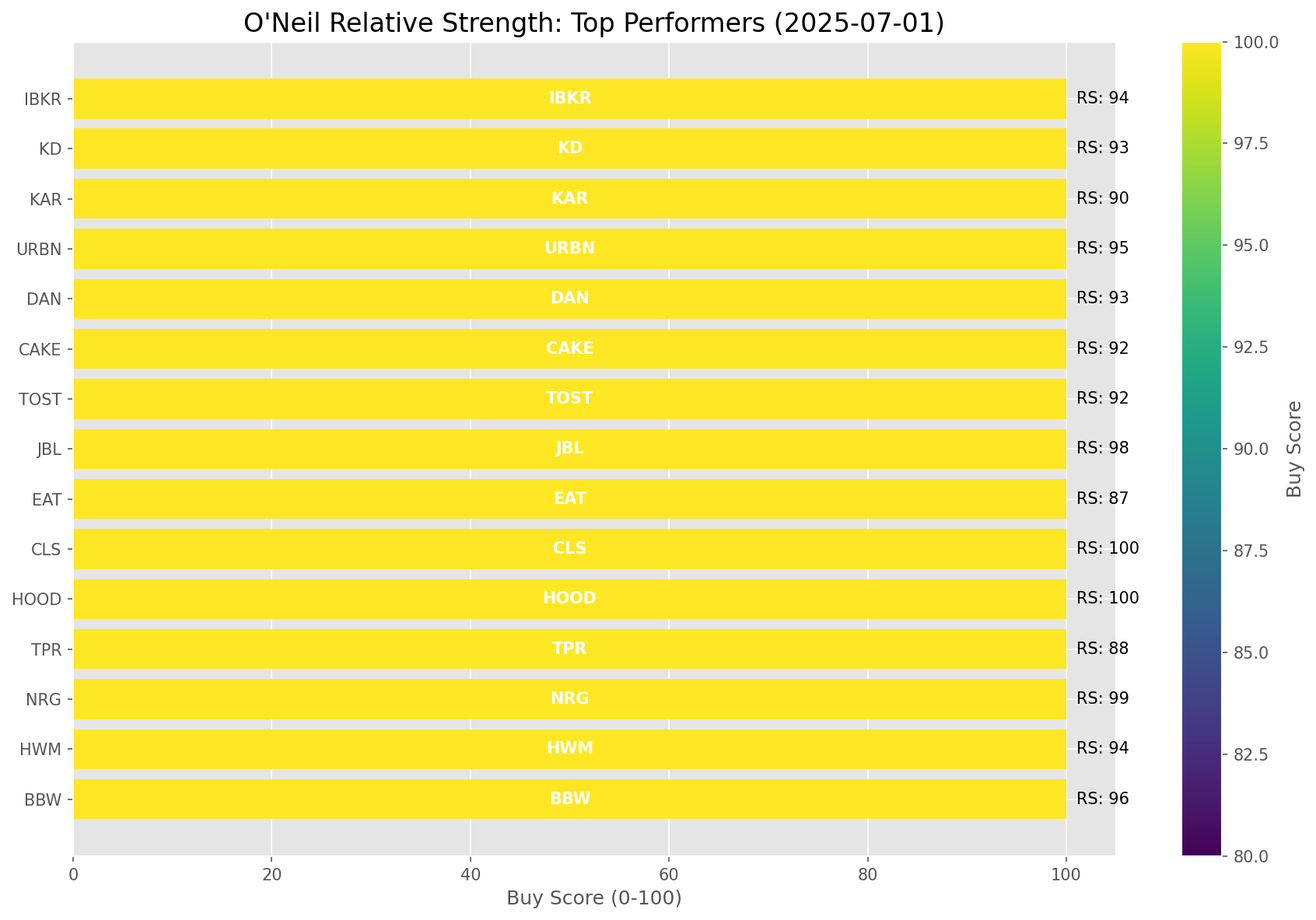
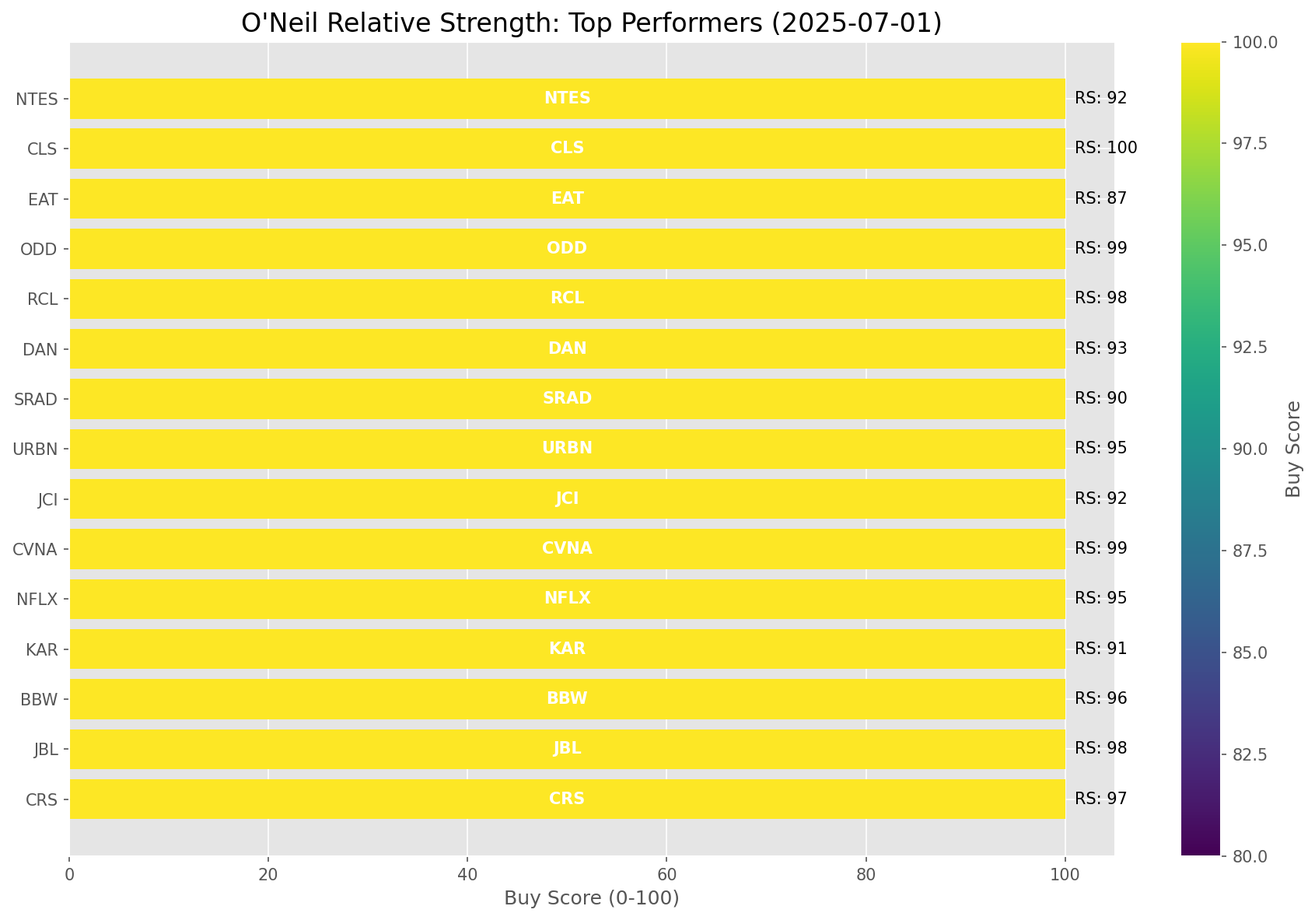
Add market report for 2025-07-01

diff --git a/oneil_relative_strength_report_2025-07-01.md b/oneil_relative_strength_report_2025-07-01.md
@@ -9,11 +9,11 @@
 | Metric | Value |
 |--------|-------|
 | **Market Valuation** | **Overvalued** |
-| **Current Ratio** | 10.15 |
+| **Current Ratio** | 10.14 |
 | **Historical Mean** | 9.36 |
 | **Standard Deviation** | 0.46 |
 | **Z-Score (StdDev from Mean)** | 1.69 |
-| **Total Market Cap** | $304.08 trillion |
+| **Total Market Cap** | $303.93 trillion |
 | **GDP** | $29.96 trillion |
 
 ## **Market Insights**
@@ -49,41 +49,41 @@ Based on William O'Neil's Relative Strength Methodology
 
 | ETF | Strength | RS Rating | Performance | Above Key MAs | Trend | Sector |
 |-----|----------|-----------|-------------|--------------|-------|--------|
-| [ARKW](https://www.tradingview.com/chart/?symbol=ARKW) | 99.0 | 98.0 | 52.21% | 10d ✓, 50d ✓, 200d ✓ | ↗ | Next Generation Internet |
-| [ARKF](https://www.tradingview.com/chart/?symbol=ARKF) | 98.5 | 97.0 | 47.87% | 10d ✓, 50d ✓, 200d ✓ | ↗ | Fintech Innovation |
-| [ARKK](https://www.tradingview.com/chart/?symbol=ARKK) | 98.0 | 96.0 | 44.61% | 10d ✓, 50d ✓, 200d ✓ | ↗ | Innovation |
-| [BLOK](https://www.tradingview.com/chart/?symbol=BLOK) | 97.0 | 94.0 | 35.30% | 10d ✓, 50d ✓, 200d ✓ | ↗ | Blockchain & Cryptocurrency |
-| [XLK](https://www.tradingview.com/chart/?symbol=XLK) | 92.5 | 85.0 | 21.47% | 10d ✓, 50d ✓, 200d ✓ | ↗ | Technology |
-| [AIQ](https://www.tradingview.com/chart/?symbol=AIQ) | 90.5 | 81.0 | 18.64% | 10d ✓, 50d ✓, 200d ✓ | ↗ | Artificial Intelligence & Technology |
-| [CIBR](https://www.tradingview.com/chart/?symbol=CIBR) | 90.0 | 80.0 | 17.90% | 10d ✓, 50d ✓, 200d ✓ | ↗ | Cybersecurity |
-| [URA](https://www.tradingview.com/chart/?symbol=URA) | 89.6 | 99.0 | 63.48% | 10d ✗, 50d ✓, 200d ✓ | ↗ | Uranium |
-| [PAVE](https://www.tradingview.com/chart/?symbol=PAVE) | 89.5 | 79.0 | 16.96% | 10d ✓, 50d ✓, 200d ✓ | ↗ | Infrastructure |
-| [XLI](https://www.tradingview.com/chart/?symbol=XLI) | 86.0 | 72.0 | 12.97% | 10d ✓, 50d ✓, 200d ✓ | ↗ | Industrial |
-| [JETS](https://www.tradingview.com/chart/?symbol=JETS) | 85.5 | 71.0 | 12.40% | 10d ✓, 50d ✓, 200d ✓ | ↗ | Airlines |
-| [XLC](https://www.tradingview.com/chart/?symbol=XLC) | 84.5 | 69.0 | 11.62% | 10d ✓, 50d ✓, 200d ✓ | ↗ | Communications |
-| [XLY](https://www.tradingview.com/chart/?symbol=XLY) | 83.5 | 67.0 | 10.74% | 10d ✓, 50d ✓, 200d ✓ | ↗ | Consumer Discretionary |
-| [IYZ](https://www.tradingview.com/chart/?symbol=IYZ) | 80.5 | 61.0 | 8.63% | 10d ✓, 50d ✓, 200d ✓ | ↗ | Telecommunications |
-| [XLF](https://www.tradingview.com/chart/?symbol=XLF) | 76.0 | 52.0 | 5.73% | 10d ✓, 50d ✓, 200d ✓ | ↗ | Financial |
-| [SOXX](https://www.tradingview.com/chart/?symbol=SOXX) | 74.5 | 89.0 | 26.40% | 10d ✓, 50d ✓, 200d ✓ | ↘ | Semiconductors |
-| [XLU](https://www.tradingview.com/chart/?symbol=XLU) | 74.0 | 48.0 | 3.80% | 10d ✓, 50d ✓, 200d ✓ | ↗ | Utilities |
-| [ARKG](https://www.tradingview.com/chart/?symbol=ARKG) | 69.0 | 78.0 | 16.52% | 10d ✓, 50d ✓, 200d ✓ | ↘ | Genomics |
-| [XLP](https://www.tradingview.com/chart/?symbol=XLP) | 68.5 | 37.0 | 0.51% | 10d ✓, 50d ✓, 200d ✓ | ↗ | Consumer Staples |
-| [ICLN](https://www.tradingview.com/chart/?symbol=ICLN) | 68.5 | 77.0 | 15.72% | 10d ✓, 50d ✓, 200d ✓ | ↘ | Clean Energy |
-| [GLD](https://www.tradingview.com/chart/?symbol=GLD) | 67.6 | 55.0 | 6.76% | 10d ✗, 50d ✓, 200d ✓ | ↗ | Gold |
-| [SLV](https://www.tradingview.com/chart/?symbol=SLV) | 66.6 | 53.0 | 5.82% | 10d ✗, 50d ✓, 200d ✓ | ↗ | Silver |
-| [KWEB](https://www.tradingview.com/chart/?symbol=KWEB) | 64.5 | 29.0 | -1.39% | 10d ✓, 50d ✓, 200d ✓ | ↗ | Chinese Internet |
-| [IYT](https://www.tradingview.com/chart/?symbol=IYT) | 60.5 | 61.0 | 8.68% | 10d ✓, 50d ✓, 200d ✓ | ↘ | Transportation |
-| [XLB](https://www.tradingview.com/chart/?symbol=XLB) | 55.0 | 50.0 | 4.88% | 10d ✓, 50d ✓, 200d ✓ | ↘ | Materials |
-| [ITB](https://www.tradingview.com/chart/?symbol=ITB) | 41.8 | 44.0 | 2.53% | 10d ✓, 50d ✓, 200d ✗ | ↘ | Home Construction |
-| [IBB](https://www.tradingview.com/chart/?symbol=IBB) | 37.3 | 35.0 | 0.01% | 10d ✓, 50d ✓, 200d ✗ | ↘ | Biotechnology |
-| [IYR](https://www.tradingview.com/chart/?symbol=IYR) | 36.8 | 34.0 | -0.15% | 10d ✓, 50d ✓, 200d ✗ | ↘ | Real Estate |
-| [DBA](https://www.tradingview.com/chart/?symbol=DBA) | 32.5 | 25.0 | -2.84% | 10d ✗, 50d ✗, 200d ✗ | ↗ | Agriculture |
-| [TLT](https://www.tradingview.com/chart/?symbol=TLT) | 31.8 | 24.0 | -3.21% | 10d ✓, 50d ✓, 200d ✗ | ↘ | Long-term Treasuries |
-| [XLV](https://www.tradingview.com/chart/?symbol=XLV) | 28.3 | 17.0 | -6.34% | 10d ✓, 50d ✓, 200d ✗ | ↘ | Healthcare |
-| [DBC](https://www.tradingview.com/chart/?symbol=DBC) | 22.9 | 26.0 | -2.60% | 10d ✗, 50d ✓, 200d ✗ | ↘ | Commodities |
-| [XLE](https://www.tradingview.com/chart/?symbol=XLE) | 16.9 | 14.0 | -8.20% | 10d ✗, 50d ✓, 200d ✗ | ↘ | Energy |
+| [ARKW](https://www.tradingview.com/chart/?symbol=ARKW) | 99.0 | 98.0 | 52.59% | 10d ✓, 50d ✓, 200d ✓ | ↗ | Next Generation Internet |
+| [ARKF](https://www.tradingview.com/chart/?symbol=ARKF) | 98.5 | 97.0 | 48.26% | 10d ✓, 50d ✓, 200d ✓ | ↗ | Fintech Innovation |
+| [ARKK](https://www.tradingview.com/chart/?symbol=ARKK) | 98.0 | 96.0 | 44.89% | 10d ✓, 50d ✓, 200d ✓ | ↗ | Innovation |
+| [BLOK](https://www.tradingview.com/chart/?symbol=BLOK) | 97.0 | 94.0 | 35.23% | 10d ✓, 50d ✓, 200d ✓ | ↗ | Blockchain & Cryptocurrency |
+| [XLK](https://www.tradingview.com/chart/?symbol=XLK) | 92.5 | 85.0 | 21.55% | 10d ✓, 50d ✓, 200d ✓ | ↗ | Technology |
+| [AIQ](https://www.tradingview.com/chart/?symbol=AIQ) | 91.0 | 82.0 | 18.75% | 10d ✓, 50d ✓, 200d ✓ | ↗ | Artificial Intelligence & Technology |
+| [CIBR](https://www.tradingview.com/chart/?symbol=CIBR) | 90.5 | 81.0 | 18.13% | 10d ✓, 50d ✓, 200d ✓ | ↗ | Cybersecurity |
+| [URA](https://www.tradingview.com/chart/?symbol=URA) | 89.6 | 99.0 | 63.26% | 10d ✗, 50d ✓, 200d ✓ | ↗ | Uranium |
+| [PAVE](https://www.tradingview.com/chart/?symbol=PAVE) | 89.5 | 79.0 | 16.67% | 10d ✓, 50d ✓, 200d ✓ | ↗ | Infrastructure |
+| [XLI](https://www.tradingview.com/chart/?symbol=XLI) | 86.0 | 72.0 | 12.92% | 10d ✓, 50d ✓, 200d ✓ | ↗ | Industrial |
+| [JETS](https://www.tradingview.com/chart/?symbol=JETS) | 86.0 | 72.0 | 12.81% | 10d ✓, 50d ✓, 200d ✓ | ↗ | Airlines |
+| [XLC](https://www.tradingview.com/chart/?symbol=XLC) | 85.0 | 70.0 | 11.73% | 10d ✓, 50d ✓, 200d ✓ | ↗ | Communications |
+| [XLY](https://www.tradingview.com/chart/?symbol=XLY) | 83.0 | 66.0 | 10.53% | 10d ✓, 50d ✓, 200d ✓ | ↗ | Consumer Discretionary |
+| [IYZ](https://www.tradingview.com/chart/?symbol=IYZ) | 80.5 | 61.0 | 8.58% | 10d ✓, 50d ✓, 200d ✓ | ↗ | Telecommunications |
+| [XLF](https://www.tradingview.com/chart/?symbol=XLF) | 76.5 | 53.0 | 5.72% | 10d ✓, 50d ✓, 200d ✓ | ↗ | Financial |
+| [SOXX](https://www.tradingview.com/chart/?symbol=SOXX) | 74.5 | 89.0 | 26.28% | 10d ✓, 50d ✓, 200d ✓ | ↘ | Semiconductors |
+| [XLU](https://www.tradingview.com/chart/?symbol=XLU) | 74.0 | 48.0 | 3.92% | 10d ✓, 50d ✓, 200d ✓ | ↗ | Utilities |
+| [ARKG](https://www.tradingview.com/chart/?symbol=ARKG) | 69.0 | 78.0 | 16.43% | 10d ✓, 50d ✓, 200d ✓ | ↘ | Genomics |
+| [XLP](https://www.tradingview.com/chart/?symbol=XLP) | 68.5 | 37.0 | 0.38% | 10d ✓, 50d ✓, 200d ✓ | ↗ | Consumer Staples |
+| [ICLN](https://www.tradingview.com/chart/?symbol=ICLN) | 68.5 | 77.0 | 15.76% | 10d ✓, 50d ✓, 200d ✓ | ↘ | Clean Energy |
+| [GLD](https://www.tradingview.com/chart/?symbol=GLD) | 67.6 | 55.0 | 6.74% | 10d ✗, 50d ✓, 200d ✓ | ↗ | Gold |
+| [SLV](https://www.tradingview.com/chart/?symbol=SLV) | 66.1 | 52.0 | 5.61% | 10d ✗, 50d ✓, 200d ✓ | ↗ | Silver |
+| [KWEB](https://www.tradingview.com/chart/?symbol=KWEB) | 64.5 | 29.0 | -1.63% | 10d ✓, 50d ✓, 200d ✓ | ↗ | Chinese Internet |
+| [IYT](https://www.tradingview.com/chart/?symbol=IYT) | 60.5 | 61.0 | 8.82% | 10d ✓, 50d ✓, 200d ✓ | ↘ | Transportation |
+| [XLB](https://www.tradingview.com/chart/?symbol=XLB) | 55.0 | 50.0 | 4.77% | 10d ✓, 50d ✓, 200d ✓ | ↘ | Materials |
+| [ITB](https://www.tradingview.com/chart/?symbol=ITB) | 41.3 | 43.0 | 2.02% | 10d ✓, 50d ✓, 200d ✗ | ↘ | Home Construction |
+| [IBB](https://www.tradingview.com/chart/?symbol=IBB) | 36.8 | 34.0 | -0.21% | 10d ✓, 50d ✓, 200d ✗ | ↘ | Biotechnology |
+| [IYR](https://www.tradingview.com/chart/?symbol=IYR) | 36.3 | 33.0 | -0.32% | 10d ✓, 50d ✓, 200d ✗ | ↘ | Real Estate |
+| [DBA](https://www.tradingview.com/chart/?symbol=DBA) | 32.5 | 25.0 | -2.95% | 10d ✗, 50d ✗, 200d ✗ | ↗ | Agriculture |
+| [TLT](https://www.tradingview.com/chart/?symbol=TLT) | 31.8 | 24.0 | -3.17% | 10d ✓, 50d ✓, 200d ✗ | ↘ | Long-term Treasuries |
+| [XLV](https://www.tradingview.com/chart/?symbol=XLV) | 28.3 | 17.0 | -6.37% | 10d ✓, 50d ✓, 200d ✗ | ↘ | Healthcare |
+| [DBC](https://www.tradingview.com/chart/?symbol=DBC) | 22.9 | 26.0 | -2.53% | 10d ✗, 50d ✓, 200d ✗ | ↘ | Commodities |
 | [BIL](https://www.tradingview.com/chart/?symbol=BIL) | 16.5 | 33.0 | -0.32% | 10d ✗, 50d ✗, 200d ✗ | ↘ | Short-term Treasuries |
-| [UUP](https://www.tradingview.com/chart/?symbol=UUP) | 9.0 | 18.0 | -5.90% | 10d ✗, 50d ✗, 200d ✗ | ↘ | U.S. Dollar |
+| [XLE](https://www.tradingview.com/chart/?symbol=XLE) | 16.4 | 13.0 | -8.55% | 10d ✗, 50d ✓, 200d ✗ | ↘ | Energy |
+| [UUP](https://www.tradingview.com/chart/?symbol=UUP) | 9.0 | 18.0 | -5.85% | 10d ✗, 50d ✗, 200d ✗ | ↘ | U.S. Dollar |
 
 ### **Sector ETF Performance Interpretation**
 
@@ -100,7 +100,7 @@ This table shows the relative strength metrics for different market sectors base
 
 The current market leadership is coming from the following sectors: **Next Generation Internet, Fintech Innovation, Innovation**.
 
-The **Next Generation Internet** sector (represented by **ARKW**) is showing particularly strong relative strength with an RS rating of 98.0 and performance of 52.21% vs. the S&P 500. This sector is trading above its 10-day, 50-day, 200-day moving average(s). Investors should consider focusing on high RS stocks within these leading sectors for potential outperformance.
+The **Next Generation Internet** sector (represented by **ARKW**) is showing particularly strong relative strength with an RS rating of 98.0 and performance of 52.59% vs. the S&P 500. This sector is trading above its 10-day, 50-day, 200-day moving average(s). Investors should consider focusing on high RS stocks within these leading sectors for potential outperformance.
 
 ---
 
@@ -110,134 +110,130 @@ The following 62 stocks show exceptional relative strength:
 
 | RS Rating | Buy Score | Current Price | Chart | Name | Ticker |
 |-----------|-----------|---------------|-------|------|--------|
-| 100 | 100 | $92.05 | [Chart](https://www.tradingview.com/chart/?symbol=HOOD) | Robinhood Markets, Inc. Class A Common Stock | HOOD |
-| 100 | 100 | $145.97 | [Chart](https://www.tradingview.com/chart/?symbol=CLS) | Celestica, Inc. | CLS |
-| 100 | 100 | $166.86 | [Chart](https://www.tradingview.com/chart/?symbol=SEZL) | Sezzle Inc. Common Stock | SEZL |
-| 100 | 100 | $257.93 | [Chart](https://www.tradingview.com/chart/?symbol=DAVE) | Dave Inc. Class A Common Stock | DAVE |
-| 99 | 100 | $155.76 | [Chart](https://www.tradingview.com/chart/?symbol=NRG) | NRG Energy, Inc. | NRG |
-| 99 | 100 | $336.33 | [Chart](https://www.tradingview.com/chart/?symbol=CVNA) | Carvana Co. | CVNA |
-| 99 | 100 | $73.97 | [Chart](https://www.tradingview.com/chart/?symbol=ODD) | ODDITY Tech Ltd. Class A Ordinary Shares | ODD |
-| 98 | 100 | $215.69 | [Chart](https://www.tradingview.com/chart/?symbol=JBL) | Jabil Inc. | JBL |
-| 98 | 100 | $43.95 | [Chart](https://www.tradingview.com/chart/?symbol=FARO) | Faro Technologies Inc | FARO |
-| 98 | 100 | $314.44 | [Chart](https://www.tradingview.com/chart/?symbol=RCL) | Royal Caribbean Group | RCL |
-| 98 | 100 | $272.34 | [Chart](https://www.tradingview.com/chart/?symbol=CRS) | Carpenter Technology Corp | CRS |
-| 96 | 100 | $52.68 | [Chart](https://www.tradingview.com/chart/?symbol=BBW) | Build-A-Bear Workshop, Inc. | BBW |
-| 95 | 100 | $73.55 | [Chart](https://www.tradingview.com/chart/?symbol=URBN) | Urban Outfitters Inc | URBN |
-| 95 | 100 | $1296.14 | [Chart](https://www.tradingview.com/chart/?symbol=NFLX) | NetFlix Inc | NFLX |
-| 95 | 100 | $37.48 | [Chart](https://www.tradingview.com/chart/?symbol=AS) | Amer Sports, Inc. | AS |
-| 94 | 100 | $177.13 | [Chart](https://www.tradingview.com/chart/?symbol=HWM) | Howmet Aerospace Inc. | HWM |
-| 94 | 100 | $56.21 | [Chart](https://www.tradingview.com/chart/?symbol=IBKR) | Interactive Brokers Group, Inc. Class A Common Stock | IBKR |
-| 94 | 100 | $45.28 | [Chart](https://www.tradingview.com/chart/?symbol=DRS) | Leonardo DRS, Inc. Common Stock | DRS |
-| 93 | 100 | $17.55 | [Chart](https://www.tradingview.com/chart/?symbol=DAN) | Dana Incorporated | DAN |
-| 93 | 100 | $41.84 | [Chart](https://www.tradingview.com/chart/?symbol=KD) | Kyndryl Holdings, Inc. | KD |
-| 93 | 100 | $244.74 | [Chart](https://www.tradingview.com/chart/?symbol=WWD) | Woodward, Inc. | WWD |
-| 92 | 100 | $43.10 | [Chart](https://www.tradingview.com/chart/?symbol=TOST) | Toast, Inc. | TOST |
-| 92 | 100 | $64.01 | [Chart](https://www.tradingview.com/chart/?symbol=CAKE) | Cheesecake Factory (The) | CAKE |
-| 92 | 100 | $238.26 | [Chart](https://www.tradingview.com/chart/?symbol=DASH) | DoorDash, Inc. Class A Common Stock | DASH |
-| 92 | 100 | $134.84 | [Chart](https://www.tradingview.com/chart/?symbol=NTES) | NetEase, inc. | NTES |
-| 92 | 100 | $104.45 | [Chart](https://www.tradingview.com/chart/?symbol=JCI) | Johnson Controls International plc | JCI |
-| 91 | 100 | $98.45 | [Chart](https://www.tradingview.com/chart/?symbol=SANM) | Sanmina  Corp | SANM |
-| 90 | 100 | $24.71 | [Chart](https://www.tradingview.com/chart/?symbol=KAR) | OPENLANE, Inc | KAR |
-| 90 | 100 | $27.68 | [Chart](https://www.tradingview.com/chart/?symbol=SRAD) | Sportradar Group AG Class A Ordinary Shares | SRAD |
-| 90 | 100 | $153.14 | [Chart](https://www.tradingview.com/chart/?symbol=COOP) | Mr. Cooper Group Inc. Common Stock | COOP |
-| 88 | 100 | $87.21 | [Chart](https://www.tradingview.com/chart/?symbol=TPR) | Tapestry, Inc. Common Stock | TPR |
-| 87 | 100 | $184.36 | [Chart](https://www.tradingview.com/chart/?symbol=EAT) | Brinker International, Inc. | EAT |
-| 88 | 99 | $5735.26 | [Chart](https://www.tradingview.com/chart/?symbol=BKNG) | Booking Holdings Inc. Common Stock | BKNG |
-| 88 | 99 | $249.80 | [Chart](https://www.tradingview.com/chart/?symbol=GE) | GE Aerospace | GE |
-| 84 | 98 | $21.34 | [Chart](https://www.tradingview.com/chart/?symbol=KT) | KT Corp. | KT |
-| 87 | 97 | $106.16 | [Chart](https://www.tradingview.com/chart/?symbol=PSMT) | Pricesmart Inc | PSMT |
-| 87 | 96 | $65.25 | [Chart](https://www.tradingview.com/chart/?symbol=RYTM) | Rhythm Pharmaceuticals, Inc. Common Stock | RYTM |
-| 85 | 96 | $282.87 | [Chart](https://www.tradingview.com/chart/?symbol=VEEV) | Veeva Systems Inc. | VEEV |
-| 85 | 96 | $27.73 | [Chart](https://www.tradingview.com/chart/?symbol=UVE) | UNIVERSAL INSURANCE HLDG, INC. | UVE |
-| 86 | 95 | $48.39 | [Chart](https://www.tradingview.com/chart/?symbol=SIL) | Global X Silver Miners ETF (NEW) | SIL |
-| 84 | 95 | $185.15 | [Chart](https://www.tradingview.com/chart/?symbol=ITA) | iShares U.S. Aerospace & Defense ETF | ITA |
-| 82 | 95 | $29.26 | [Chart](https://www.tradingview.com/chart/?symbol=CAE) | CAE INC | CAE |
-| 82 | 95 | $18.32 | [Chart](https://www.tradingview.com/chart/?symbol=BCS) | Barclays PLC | BCS |
-| 82 | 95 | $36.17 | [Chart](https://www.tradingview.com/chart/?symbol=AHR) | American Healthcare REIT, Inc. | AHR |
-| 81 | 95 | $90.67 | [Chart](https://www.tradingview.com/chart/?symbol=SNEX) | StoneX Group Inc. Common Stock | SNEX |
-| 84 | 94 | $139.90 | [Chart](https://www.tradingview.com/chart/?symbol=PPA) | Invesco Aerospace & Defense ETF | PPA |
-| 82 | 94 | $120.83 | [Chart](https://www.tradingview.com/chart/?symbol=EHC) | Encompass Health Corporation Common Stock | EHC |
-| 83 | 93 | $215.20 | [Chart](https://www.tradingview.com/chart/?symbol=COF) | Capital One Financial | COF |
-| 83 | 93 | $110.75 | [Chart](https://www.tradingview.com/chart/?symbol=SPMO) | Invesco S&P 500 Momentum ETF | SPMO |
-| 83 | 93 | $29.37 | [Chart](https://www.tradingview.com/chart/?symbol=NTGR) | NETGEAR, Inc. | NTGR |
-| 82 | 93 | $75.15 | [Chart](https://www.tradingview.com/chart/?symbol=CTVA) | Corteva, Inc. Common Stock | CTVA |
-| 81 | 93 | $80.64 | [Chart](https://www.tradingview.com/chart/?symbol=LLYVK) | Liberty Media Corporation Series C Liberty Live Common Stock | LLYVK |
-| 80 | 93 | $43.38 | [Chart](https://www.tradingview.com/chart/?symbol=EXEL) | Exelixis Inc | EXEL |
-| 80 | 93 | $291.76 | [Chart](https://www.tradingview.com/chart/?symbol=IBM) | International Business Machines Corporation | IBM |
-| 81 | 92 | $100.85 | [Chart](https://www.tradingview.com/chart/?symbol=LBRDK) | Liberty Broadband Corporation Class C | LBRDK |
-| 81 | 92 | $77.58 | [Chart](https://www.tradingview.com/chart/?symbol=USFD) | US Foods Holding Corp. | USFD |
-| 80 | 92 | $74.28 | [Chart](https://www.tradingview.com/chart/?symbol=CIBR) | First Trust Exchange-Traded Fund II First Trust NASDAQ Cybersecurity ETF | CIBR |
-| 80 | 92 | $510.33 | [Chart](https://www.tradingview.com/chart/?symbol=CASY) | Casey's General Stores Inc | CASY |
-| 82 | 91 | $121.79 | [Chart](https://www.tradingview.com/chart/?symbol=FUTU) | Futu Holdings Limited American Depositary Shares | FUTU |
-| 80 | 91 | $221.70 | [Chart](https://www.tradingview.com/chart/?symbol=BAP) | Credicorp LTD | BAP |
-| 80 | 90 | $91.54 | [Chart](https://www.tradingview.com/chart/?symbol=SEIC) | SEI Investments Co | SEIC |
-| 80 | 90 | $50.27 | [Chart](https://www.tradingview.com/chart/?symbol=GH) | Guardant Health, Inc. Common Stock | GH |
+| 100 | 100 | $148.91 | [Chart](https://www.tradingview.com/chart/?symbol=CLS) | Celestica, Inc. | CLS |
+| 100 | 100 | $167.58 | [Chart](https://www.tradingview.com/chart/?symbol=SEZL) | Sezzle Inc. Common Stock | SEZL |
+| 100 | 100 | $92.33 | [Chart](https://www.tradingview.com/chart/?symbol=HOOD) | Robinhood Markets, Inc. Class A Common Stock | HOOD |
+| 100 | 100 | $260.67 | [Chart](https://www.tradingview.com/chart/?symbol=DAVE) | Dave Inc. Class A Common Stock | DAVE |
+| 99 | 100 | $338.26 | [Chart](https://www.tradingview.com/chart/?symbol=CVNA) | Carvana Co. | CVNA |
+| 99 | 100 | $74.24 | [Chart](https://www.tradingview.com/chart/?symbol=ODD) | ODDITY Tech Ltd. Class A Ordinary Shares | ODD |
+| 99 | 100 | $155.96 | [Chart](https://www.tradingview.com/chart/?symbol=NRG) | NRG Energy, Inc. | NRG |
+| 99 | 100 | $506.00 | [Chart](https://www.tradingview.com/chart/?symbol=GEV) | GE Vernova Inc. | GEV |
+| 98 | 100 | $216.14 | [Chart](https://www.tradingview.com/chart/?symbol=JBL) | Jabil Inc. | JBL |
+| 98 | 100 | $315.10 | [Chart](https://www.tradingview.com/chart/?symbol=RCL) | Royal Caribbean Group | RCL |
+| 98 | 100 | $43.92 | [Chart](https://www.tradingview.com/chart/?symbol=FARO) | Faro Technologies Inc | FARO |
+| 97 | 100 | $271.75 | [Chart](https://www.tradingview.com/chart/?symbol=CRS) | Carpenter Technology Corp | CRS |
+| 96 | 100 | $52.60 | [Chart](https://www.tradingview.com/chart/?symbol=BBW) | Build-A-Bear Workshop, Inc. | BBW |
+| 95 | 100 | $1293.60 | [Chart](https://www.tradingview.com/chart/?symbol=NFLX) | NetFlix Inc | NFLX |
+| 95 | 100 | $73.59 | [Chart](https://www.tradingview.com/chart/?symbol=URBN) | Urban Outfitters Inc | URBN |
+| 95 | 100 | $37.67 | [Chart](https://www.tradingview.com/chart/?symbol=AS) | Amer Sports, Inc. | AS |
+| 94 | 100 | $244.35 | [Chart](https://www.tradingview.com/chart/?symbol=WWD) | Woodward, Inc. | WWD |
+| 94 | 100 | $45.09 | [Chart](https://www.tradingview.com/chart/?symbol=DRS) | Leonardo DRS, Inc. Common Stock | DRS |
+| 94 | 100 | $56.32 | [Chart](https://www.tradingview.com/chart/?symbol=IBKR) | Interactive Brokers Group, Inc. Class A Common Stock | IBKR |
+| 93 | 100 | $17.51 | [Chart](https://www.tradingview.com/chart/?symbol=DAN) | Dana Incorporated | DAN |
+| 93 | 100 | $41.96 | [Chart](https://www.tradingview.com/chart/?symbol=KD) | Kyndryl Holdings, Inc. | KD |
+| 92 | 100 | $104.67 | [Chart](https://www.tradingview.com/chart/?symbol=JCI) | Johnson Controls International plc | JCI |
+| 92 | 100 | $134.78 | [Chart](https://www.tradingview.com/chart/?symbol=NTES) | NetEase, inc. | NTES |
+| 92 | 100 | $238.01 | [Chart](https://www.tradingview.com/chart/?symbol=DASH) | DoorDash, Inc. Class A Common Stock | DASH |
+| 92 | 100 | $63.70 | [Chart](https://www.tradingview.com/chart/?symbol=CAKE) | Cheesecake Factory (The) | CAKE |
+| 91 | 100 | $24.74 | [Chart](https://www.tradingview.com/chart/?symbol=KAR) | OPENLANE, Inc | KAR |
+| 91 | 100 | $32.56 | [Chart](https://www.tradingview.com/chart/?symbol=PRDO) | Perdoceo Education Corporation | PRDO |
+| 91 | 100 | $98.49 | [Chart](https://www.tradingview.com/chart/?symbol=SANM) | Sanmina  Corp | SANM |
+| 90 | 100 | $27.69 | [Chart](https://www.tradingview.com/chart/?symbol=SRAD) | Sportradar Group AG Class A Ordinary Shares | SRAD |
+| 90 | 100 | $152.18 | [Chart](https://www.tradingview.com/chart/?symbol=COOP) | Mr. Cooper Group Inc. Common Stock | COOP |
+| 87 | 100 | $184.02 | [Chart](https://www.tradingview.com/chart/?symbol=EAT) | Brinker International, Inc. | EAT |
+| 88 | 99 | $5730.73 | [Chart](https://www.tradingview.com/chart/?symbol=BKNG) | Booking Holdings Inc. Common Stock | BKNG |
+| 88 | 99 | $249.02 | [Chart](https://www.tradingview.com/chart/?symbol=GE) | GE Aerospace | GE |
+| 87 | 99 | $86.94 | [Chart](https://www.tradingview.com/chart/?symbol=TPR) | Tapestry, Inc. Common Stock | TPR |
+| 84 | 98 | $21.31 | [Chart](https://www.tradingview.com/chart/?symbol=KT) | KT Corp. | KT |
+| 86 | 97 | $282.90 | [Chart](https://www.tradingview.com/chart/?symbol=VEEV) | Veeva Systems Inc. | VEEV |
+| 87 | 96 | $65.44 | [Chart](https://www.tradingview.com/chart/?symbol=RYTM) | Rhythm Pharmaceuticals, Inc. Common Stock | RYTM |
+| 86 | 96 | $105.79 | [Chart](https://www.tradingview.com/chart/?symbol=PSMT) | Pricesmart Inc | PSMT |
+| 86 | 96 | $250.81 | [Chart](https://www.tradingview.com/chart/?symbol=WTS) | Watts Water Technologies, Inc. Class A | WTS |
+| 83 | 96 | $18.33 | [Chart](https://www.tradingview.com/chart/?symbol=BCS) | Barclays PLC | BCS |
+| 83 | 96 | $36.22 | [Chart](https://www.tradingview.com/chart/?symbol=AHR) | American Healthcare REIT, Inc. | AHR |
+| 82 | 96 | $90.89 | [Chart](https://www.tradingview.com/chart/?symbol=SNEX) | StoneX Group Inc. Common Stock | SNEX |
+| 86 | 95 | $48.27 | [Chart](https://www.tradingview.com/chart/?symbol=SIL) | Global X Silver Miners ETF (NEW) | SIL |
+| 84 | 95 | $185.01 | [Chart](https://www.tradingview.com/chart/?symbol=ITA) | iShares U.S. Aerospace & Defense ETF | ITA |
+| 84 | 94 | $139.82 | [Chart](https://www.tradingview.com/chart/?symbol=PPA) | Invesco Aerospace & Defense ETF | PPA |
+| 84 | 94 | $215.18 | [Chart](https://www.tradingview.com/chart/?symbol=COF) | Capital One Financial | COF |
+| 84 | 94 | $29.45 | [Chart](https://www.tradingview.com/chart/?symbol=NTGR) | NETGEAR, Inc. | NTGR |
+| 83 | 94 | $75.11 | [Chart](https://www.tradingview.com/chart/?symbol=CTVA) | Corteva, Inc. Common Stock | CTVA |
+| 81 | 94 | $43.62 | [Chart](https://www.tradingview.com/chart/?symbol=EXEL) | Exelixis Inc | EXEL |
+| 83 | 93 | $110.74 | [Chart](https://www.tradingview.com/chart/?symbol=SPMO) | Invesco S&P 500 Momentum ETF | SPMO |
+| 81 | 93 | $74.42 | [Chart](https://www.tradingview.com/chart/?symbol=CIBR) | First Trust Exchange-Traded Fund II First Trust NASDAQ Cybersecurity ETF | CIBR |
+| 80 | 93 | $28.98 | [Chart](https://www.tradingview.com/chart/?symbol=CAE) | CAE INC | CAE |
+| 82 | 92 | $50.71 | [Chart](https://www.tradingview.com/chart/?symbol=GH) | Guardant Health, Inc. Common Stock | GH |
+| 81 | 92 | $77.42 | [Chart](https://www.tradingview.com/chart/?symbol=USFD) | US Foods Holding Corp. | USFD |
+| 81 | 92 | $100.80 | [Chart](https://www.tradingview.com/chart/?symbol=LBRDK) | Liberty Broadband Corporation Class C | LBRDK |
+| 81 | 92 | $290.41 | [Chart](https://www.tradingview.com/chart/?symbol=JPM) | JPMorgan Chase & Co. | JPM |
+| 81 | 92 | $222.63 | [Chart](https://www.tradingview.com/chart/?symbol=BAP) | Credicorp LTD | BAP |
+| 80 | 92 | $80.39 | [Chart](https://www.tradingview.com/chart/?symbol=LLYVK) | Liberty Media Corporation Series C Liberty Live Common Stock | LLYVK |
+| 80 | 92 | $510.64 | [Chart](https://www.tradingview.com/chart/?symbol=CASY) | Casey's General Stores Inc | CASY |
+| 82 | 91 | $121.64 | [Chart](https://www.tradingview.com/chart/?symbol=FUTU) | Futu Holdings Limited American Depositary Shares | FUTU |
+| 80 | 91 | $27.41 | [Chart](https://www.tradingview.com/chart/?symbol=UVE) | UNIVERSAL INSURANCE HLDG, INC. | UVE |
+| 80 | 90 | $91.50 | [Chart](https://www.tradingview.com/chart/?symbol=SEIC) | SEI Investments Co | SEIC |
 
 ---
 
 
 ## **Sell Recommendations**
 
-The following 56 stocks show deteriorating relative strength:
+The following 52 stocks show deteriorating relative strength:
 
 | RS Rating | Sell Score | Current Price | Chart | Name | Ticker |
 |-----------|------------|---------------|-------|------|--------|
-| 1 | 100 | $27.58 | [Chart](https://www.tradingview.com/chart/?symbol=TECS) | Direxion Daily Technology Bear 3x Shares | TECS |
 | 1 | 100 | $25.75 | [Chart](https://www.tradingview.com/chart/?symbol=QID) | ProShares UltraShort QQQ | QID |
 | 1 | 100 | $10.09 | [Chart](https://www.tradingview.com/chart/?symbol=HIBS) | Direxion Daily S&P 500 High Beta Bear 3X Shares | HIBS |
-| 1 | 100 | $16.53 | [Chart](https://www.tradingview.com/chart/?symbol=SRTY) | ProShares UltraPro Short Russell2000 | SRTY |
-| 2 | 100 | $12.09 | [Chart](https://www.tradingview.com/chart/?symbol=LBRT) | Liberty Energy Inc. | LBRT |
-| 2 | 100 | $20.05 | [Chart](https://www.tradingview.com/chart/?symbol=BITI) | ProShares Short Bitcoin ETF | BITI |
-| 2 | 100 | $43.57 | [Chart](https://www.tradingview.com/chart/?symbol=LINE) | Lineage, Inc. Common Stock | LINE |
-| 3 | 100 | $11.78 | [Chart](https://www.tradingview.com/chart/?symbol=NRIX) | Nurix Therapeutics, Inc. Common stock | NRIX |
+| 1 | 100 | $27.44 | [Chart](https://www.tradingview.com/chart/?symbol=TECS) | Direxion Daily Technology Bear 3x Shares | TECS |
+| 1 | 100 | $16.61 | [Chart](https://www.tradingview.com/chart/?symbol=SRTY) | ProShares UltraPro Short Russell2000 | SRTY |
+| 2 | 100 | $11.93 | [Chart](https://www.tradingview.com/chart/?symbol=LBRT) | Liberty Energy Inc. | LBRT |
+| 2 | 100 | $43.25 | [Chart](https://www.tradingview.com/chart/?symbol=LINE) | Lineage, Inc. Common Stock | LINE |
+| 3 | 100 | $11.71 | [Chart](https://www.tradingview.com/chart/?symbol=NRIX) | Nurix Therapeutics, Inc. Common stock | NRIX |
+| 3 | 100 | $12.24 | [Chart](https://www.tradingview.com/chart/?symbol=VFC) | V.F. Corporation | VFC |
+| 3 | 100 | $40.26 | [Chart](https://www.tradingview.com/chart/?symbol=SDOW) | ProShares UltraPro Short Dow 30 | SDOW |
+| 3 | 100 | $20.10 | [Chart](https://www.tradingview.com/chart/?symbol=BITI) | ProShares Short Bitcoin ETF | BITI |
 | 3 | 100 | $10.54 | [Chart](https://www.tradingview.com/chart/?symbol=IMXI) | International Money Express, Inc. | IMXI |
-| 3 | 100 | $40.16 | [Chart](https://www.tradingview.com/chart/?symbol=SDOW) | ProShares UltraPro Short Dow 30 | SDOW |
-| 3 | 100 | $12.22 | [Chart](https://www.tradingview.com/chart/?symbol=VFC) | V.F. Corporation | VFC |
-| 4 | 100 | $79.80 | [Chart](https://www.tradingview.com/chart/?symbol=LNTH) | Lantheus Holdings, Inc | LNTH |
-| 4 | 100 | $25.14 | [Chart](https://www.tradingview.com/chart/?symbol=ASTH) | Astrana Health Inc. Common Stock | ASTH |
+| 4 | 100 | $25.06 | [Chart](https://www.tradingview.com/chart/?symbol=ASTH) | Astrana Health Inc. Common Stock | ASTH |
+| 4 | 100 | $79.42 | [Chart](https://www.tradingview.com/chart/?symbol=LNTH) | Lantheus Holdings, Inc | LNTH |
 | 5 | 100 | $17.25 | [Chart](https://www.tradingview.com/chart/?symbol=CODI) | Compass Diversified | CODI |
 | 5 | 100 | $33.96 | [Chart](https://www.tradingview.com/chart/?symbol=PSQ) | ProShares Short QQQ | PSQ |
-| 7 | 100 | $23.71 | [Chart](https://www.tradingview.com/chart/?symbol=DXD) | ProShares UltraShort Dow 30 | DXD |
-| 7 | 100 | $28.59 | [Chart](https://www.tradingview.com/chart/?symbol=CRNX) | Crinetics Pharmaceuticals, Inc. | CRNX |
-| 9 | 100 | $25.83 | [Chart](https://www.tradingview.com/chart/?symbol=ZSL) | ProShares UltraShort Silver | ZSL |
-| 9 | 100 | $10.46 | [Chart](https://www.tradingview.com/chart/?symbol=LBTYK) | Liberty Global Ltd. Class C Common Shares | LBTYK |
-| 11 | 100 | $17.89 | [Chart](https://www.tradingview.com/chart/?symbol=ZTO) | ZTO Express (Cayman) Inc. American Depositary Shares, each representing one Class A ordinary share | ZTO |
-| 11 | 100 | $36.48 | [Chart](https://www.tradingview.com/chart/?symbol=SARK) | Investment Managers Series Trust II Tradr 1X Short Innovation Daily ETF | SARK |
-| 13 | 100 | $17.78 | [Chart](https://www.tradingview.com/chart/?symbol=DJT) | Trump Media & Technology Group Corp. Common Stock | DJT |
-| 10 | 99 | $39.69 | [Chart](https://www.tradingview.com/chart/?symbol=SH) | ProShares Short S&P500 | SH |
-| 10 | 98 | $105.75 | [Chart](https://www.tradingview.com/chart/?symbol=PDD) | PDD Holdings Inc. American Depositary Shares | PDD |
-| 12 | 98 | $13.88 | [Chart](https://www.tradingview.com/chart/?symbol=OCSL) | Oaktree Specialty Lending Corporation | OCSL |
-| 10 | 97 | $54.05 | [Chart](https://www.tradingview.com/chart/?symbol=CNMD) | CONMED Corporation | CNMD |
-| 17 | 96 | $86.43 | [Chart](https://www.tradingview.com/chart/?symbol=BIDU) | Baidu, Inc. | BIDU |
-| 12 | 95 | $10.20 | [Chart](https://www.tradingview.com/chart/?symbol=LBTYA) | Liberty Global Ltd. Class A Common Shares | LBTYA |
-| 17 | 95 | $15.07 | [Chart](https://www.tradingview.com/chart/?symbol=PAXS) | PIMCO Access Income Fund | PAXS |
-| 9 | 94 | $49.03 | [Chart](https://www.tradingview.com/chart/?symbol=SNY) | Sanofi American Depositary Shares (Each representing one-half of one ordinary share) | SNY |
-| 16 | 94 | $25.22 | [Chart](https://www.tradingview.com/chart/?symbol=DOG) | ProShares Short Dow30 | DOG |
-| 14 | 93 | $14.83 | [Chart](https://www.tradingview.com/chart/?symbol=PLSE) | Pulse Biosciences, Inc Common Stock (DE) | PLSE |
-| 15 | 93 | $21.37 | [Chart](https://www.tradingview.com/chart/?symbol=KIDS) | OrthoPediatrics Corp. Common Stock | KIDS |
-| 17 | 93 | $340.55 | [Chart](https://www.tradingview.com/chart/?symbol=EG) | Everest Group, Ltd. | EG |
-| 23 | 93 | $10.37 | [Chart](https://www.tradingview.com/chart/?symbol=MUC) | BLACKROCK MUNIHOLDINGS CALIFORNIA QUALITY FUND, INC | MUC |
-| 11 | 92 | $68.31 | [Chart](https://www.tradingview.com/chart/?symbol=WK) | Workiva Inc. | WK |
-| 23 | 91 | $28.52 | [Chart](https://www.tradingview.com/chart/?symbol=RNA) | Avidity Biosciences, Inc. Common Stock | RNA |
-| 12 | 90 | $41.06 | [Chart](https://www.tradingview.com/chart/?symbol=UDR) | UDR, Inc. | UDR |
-| 15 | 90 | $132.19 | [Chart](https://www.tradingview.com/chart/?symbol=KMB) | Kimberly-Clark Corp. | KMB |
-| 17 | 90 | $775.67 | [Chart](https://www.tradingview.com/chart/?symbol=LLY) | Eli Lilly & Co. | LLY |
-| 18 | 89 | $290.42 | [Chart](https://www.tradingview.com/chart/?symbol=UTHR) | United Therapeutics Corp | UTHR |
-| 19 | 88 | $35.89 | [Chart](https://www.tradingview.com/chart/?symbol=WPP) | WPP PLC | WPP |
-| 20 | 87 | $75.27 | [Chart](https://www.tradingview.com/chart/?symbol=TNET) | TRINET GROUP, INC. | TNET |
-| 19 | 86 | $18.91 | [Chart](https://www.tradingview.com/chart/?symbol=MSDL) | Morgan Stanley Direct Lending Fund | MSDL |
-| 16 | 85 | $26.06 | [Chart](https://www.tradingview.com/chart/?symbol=DRV) | Direxion Daily Real Estate Bear 3X Shares | DRV |
-| 22 | 84 | $76.92 | [Chart](https://www.tradingview.com/chart/?symbol=CNS) | Cohen & Steers Inc. | CNS |
-| 19 | 83 | $67.97 | [Chart](https://www.tradingview.com/chart/?symbol=BRC) | Brady Corporation | BRC |
-| 22 | 82 | $46.59 | [Chart](https://www.tradingview.com/chart/?symbol=CWT) | California Water Service | CWT |
-| 23 | 82 | $41.55 | [Chart](https://www.tradingview.com/chart/?symbol=NBTB) | NBT Bancorp Inc | NBTB |
-| 25 | 80 | $302.90 | [Chart](https://www.tradingview.com/chart/?symbol=ACN) | Accenture PLC | ACN |
-| 31 | 78 | $18.07 | [Chart](https://www.tradingview.com/chart/?symbol=S) | SentinelOne, Inc. | S |
-| 32 | 78 | $12.00 | [Chart](https://www.tradingview.com/chart/?symbol=ZVZZT) | SUPER Montage TEST SYMBOL | ZVZZT |
-| 29 | 75 | $52.49 | [Chart](https://www.tradingview.com/chart/?symbol=LW) | Lamb Weston Holdings, Inc. | LW |
-| 30 | 75 | $125.89 | [Chart](https://www.tradingview.com/chart/?symbol=RGEN) | Repligen Corp | RGEN |
-| 32 | 70 | $23.09 | [Chart](https://www.tradingview.com/chart/?symbol=IBHF) | iShares iBonds 2026 Term High Yield and Income ETF | IBHF |
-| 33 | 67 | $38.98 | [Chart](https://www.tradingview.com/chart/?symbol=LZB) | La-Z-Boy Incorporated | LZB |
+| 7 | 100 | $23.77 | [Chart](https://www.tradingview.com/chart/?symbol=DXD) | ProShares UltraShort Dow 30 | DXD |
+| 7 | 100 | $28.43 | [Chart](https://www.tradingview.com/chart/?symbol=CRNX) | Crinetics Pharmaceuticals, Inc. | CRNX |
+| 9 | 100 | $10.41 | [Chart](https://www.tradingview.com/chart/?symbol=LBTYK) | Liberty Global Ltd. Class C Common Shares | LBTYK |
+| 11 | 100 | $36.41 | [Chart](https://www.tradingview.com/chart/?symbol=SARK) | Investment Managers Series Trust II Tradr 1X Short Innovation Daily ETF | SARK |
+| 12 | 100 | $17.89 | [Chart](https://www.tradingview.com/chart/?symbol=ZTO) | ZTO Express (Cayman) Inc. American Depositary Shares, each representing one Class A ordinary share | ZTO |
+| 13 | 100 | $17.73 | [Chart](https://www.tradingview.com/chart/?symbol=DJT) | Trump Media & Technology Group Corp. Common Stock | DJT |
+| 9 | 99 | $25.94 | [Chart](https://www.tradingview.com/chart/?symbol=ZSL) | ProShares UltraShort Silver | ZSL |
+| 10 | 99 | $39.71 | [Chart](https://www.tradingview.com/chart/?symbol=SH) | ProShares Short S&P500 | SH |
+| 11 | 99 | $13.75 | [Chart](https://www.tradingview.com/chart/?symbol=OCSL) | Oaktree Specialty Lending Corporation | OCSL |
+| 10 | 98 | $105.49 | [Chart](https://www.tradingview.com/chart/?symbol=PDD) | PDD Holdings Inc. American Depositary Shares | PDD |
+| 6 | 95 | $24.77 | [Chart](https://www.tradingview.com/chart/?symbol=DRV) | Direxion Daily Real Estate Bear 3X Shares | DRV |
+| 7 | 95 | $12.54 | [Chart](https://www.tradingview.com/chart/?symbol=WSR) | Whitestone REIT | WSR |
+| 11 | 95 | $54.07 | [Chart](https://www.tradingview.com/chart/?symbol=CNMD) | CONMED Corporation | CNMD |
+| 17 | 95 | $86.04 | [Chart](https://www.tradingview.com/chart/?symbol=BIDU) | Baidu, Inc. | BIDU |
+| 16 | 94 | $25.25 | [Chart](https://www.tradingview.com/chart/?symbol=DOG) | ProShares Short Dow30 | DOG |
+| 9 | 93 | $49.05 | [Chart](https://www.tradingview.com/chart/?symbol=SNY) | Sanofi American Depositary Shares (Each representing one-half of one ordinary share) | SNY |
+| 23 | 93 | $10.36 | [Chart](https://www.tradingview.com/chart/?symbol=MUC) | BLACKROCK MUNIHOLDINGS CALIFORNIA QUALITY FUND, INC | MUC |
+| 14 | 92 | $14.84 | [Chart](https://www.tradingview.com/chart/?symbol=PLSE) | Pulse Biosciences, Inc Common Stock (DE) | PLSE |
+| 17 | 91 | $340.87 | [Chart](https://www.tradingview.com/chart/?symbol=EG) | Everest Group, Ltd. | EG |
+| 11 | 90 | $68.28 | [Chart](https://www.tradingview.com/chart/?symbol=WK) | Workiva Inc. | WK |
+| 23 | 90 | $28.46 | [Chart](https://www.tradingview.com/chart/?symbol=RNA) | Avidity Biosciences, Inc. Common Stock | RNA |
+| 12 | 89 | $40.86 | [Chart](https://www.tradingview.com/chart/?symbol=UDR) | UDR, Inc. | UDR |
+| 15 | 89 | $306.29 | [Chart](https://www.tradingview.com/chart/?symbol=MOH) | Molina Healthcare, Inc. | MOH |
+| 18 | 89 | $775.90 | [Chart](https://www.tradingview.com/chart/?symbol=LLY) | Eli Lilly & Co. | LLY |
+| 20 | 89 | $87.16 | [Chart](https://www.tradingview.com/chart/?symbol=SIGI) | Selective Insurance Group | SIGI |
+| 15 | 88 | $131.61 | [Chart](https://www.tradingview.com/chart/?symbol=KMB) | Kimberly-Clark Corp. | KMB |
+| 21 | 88 | $21.86 | [Chart](https://www.tradingview.com/chart/?symbol=KIDS) | OrthoPediatrics Corp. Common Stock | KIDS |
+| 19 | 87 | $35.88 | [Chart](https://www.tradingview.com/chart/?symbol=WPP) | WPP PLC | WPP |
+| 19 | 86 | $290.91 | [Chart](https://www.tradingview.com/chart/?symbol=UTHR) | United Therapeutics Corp | UTHR |
+| 19 | 85 | $18.88 | [Chart](https://www.tradingview.com/chart/?symbol=MSDL) | Morgan Stanley Direct Lending Fund | MSDL |
+| 21 | 83 | $76.29 | [Chart](https://www.tradingview.com/chart/?symbol=CNS) | Cohen & Steers Inc. | CNS |
+| 23 | 79 | $69.02 | [Chart](https://www.tradingview.com/chart/?symbol=BRC) | Brady Corporation | BRC |
+| 25 | 79 | $302.62 | [Chart](https://www.tradingview.com/chart/?symbol=ACN) | Accenture PLC | ACN |
+| 33 | 77 | $12.00 | [Chart](https://www.tradingview.com/chart/?symbol=ZVZZT) | SUPER Montage TEST SYMBOL | ZVZZT |
+| 32 | 72 | $126.44 | [Chart](https://www.tradingview.com/chart/?symbol=RGEN) | Repligen Corp | RGEN |
+| 36 | 72 | $18.18 | [Chart](https://www.tradingview.com/chart/?symbol=S) | SentinelOne, Inc. | S |
+| 32 | 69 | $23.09 | [Chart](https://www.tradingview.com/chart/?symbol=IBHF) | iShares iBonds 2026 Term High Yield and Income ETF | IBHF |
 
 ## **Methodology**
 
